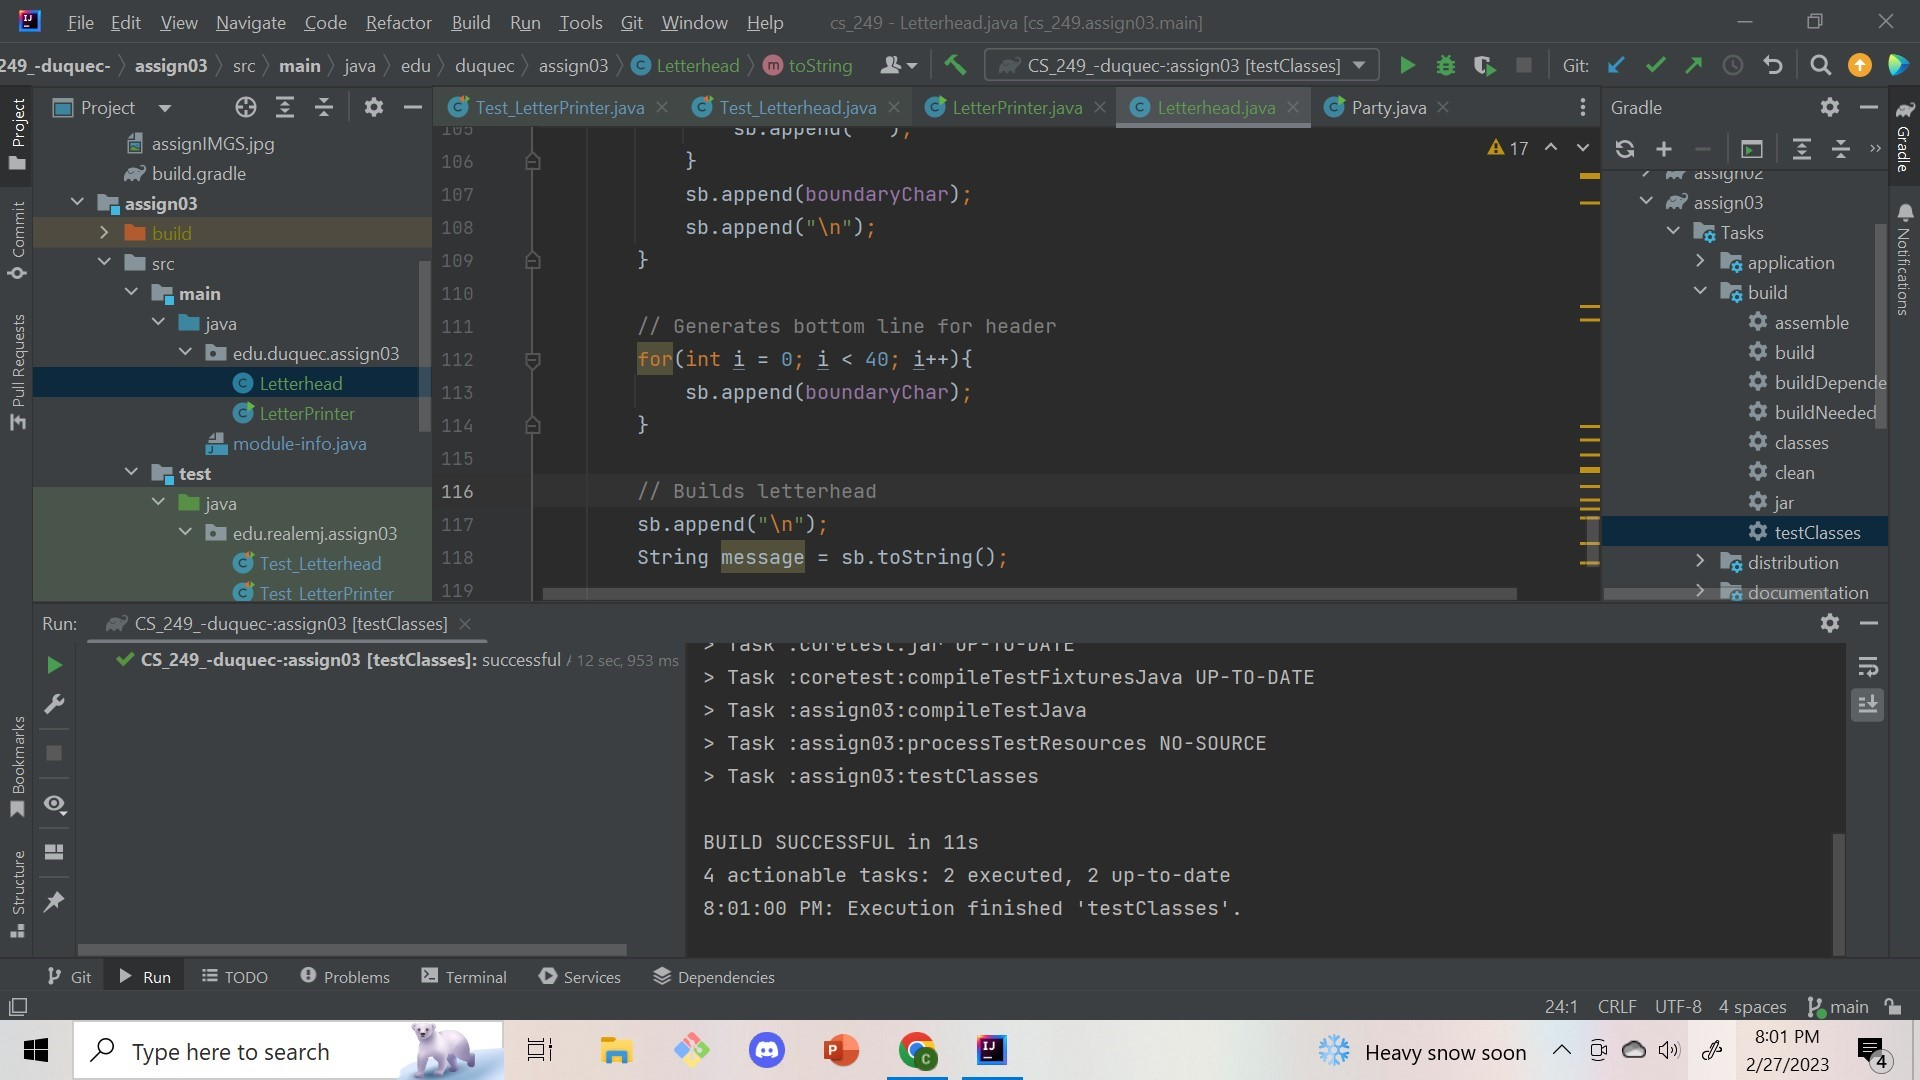
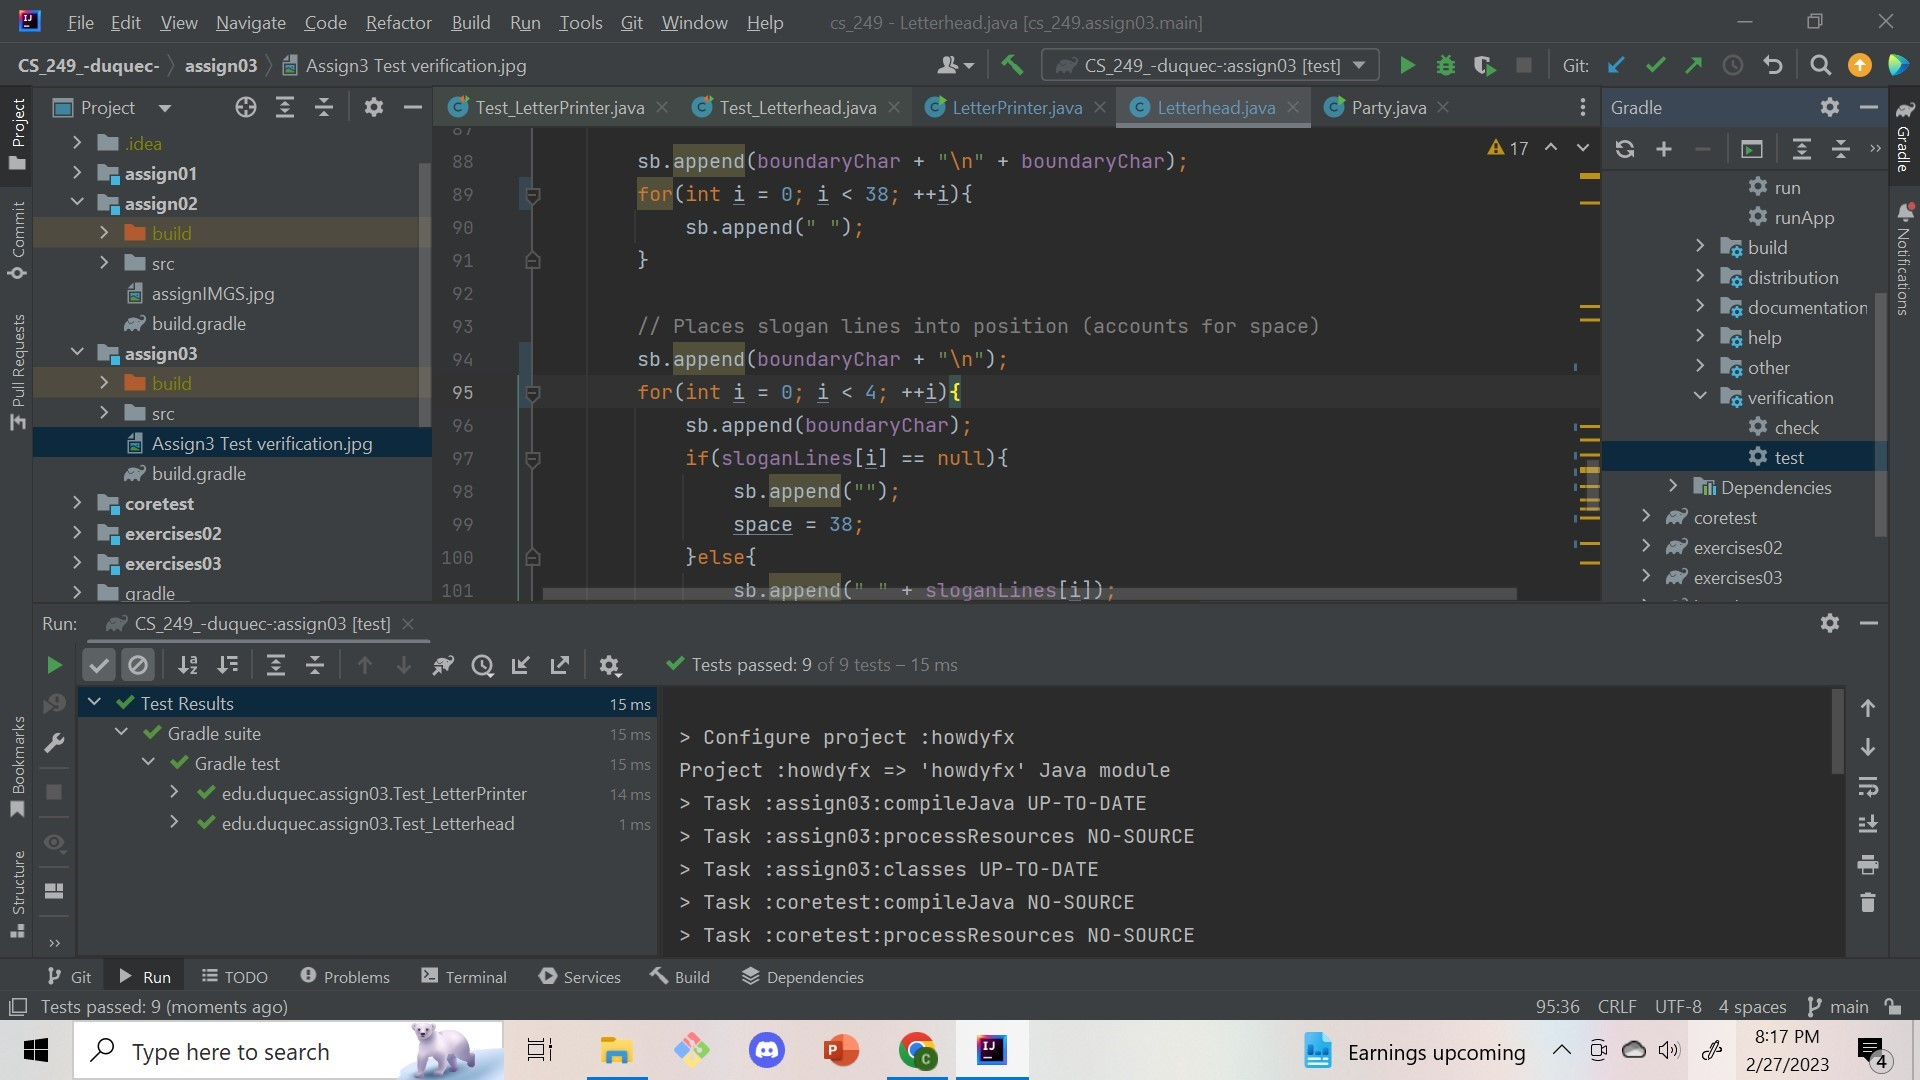
Assign 3 Updated to make up for additional boundary char

diff --git a/assign03/src/main/java/edu/duquec/assign03/Letterhead.java b/assign03/src/main/java/edu/duquec/assign03/Letterhead.java
@@ -54,7 +54,7 @@ public class Letterhead {
 
     // Stores slogan lines by detecting if there is a null or not
     public void setSlogan(String [] sloganLines){
-        for(int i = 0; i <sloganLines.length; i++){
+        for(int i = 0; i <sloganLines.length; ++i){
             if(sloganLines[i] != null){
                 this.sloganLines[i] = sloganLines[i];
             }
@@ -72,7 +72,7 @@ public class Letterhead {
         int space = 0;
 
         // Places the selected bChar 40 times creating top
-        for(int i = 0; i < 40; i++){
+        for(int i = 0; i < 40; ++i){
             sb.append(boundaryChar);
         }
 
@@ -81,18 +81,18 @@ public class Letterhead {
         // Spacing procedure for text
         space = 38 - name.length();
 
-        for(int i = 0; i < space -1; i++){
+        for(int i = 0; i < space - 1; ++i){
             sb.append(" ");
         }
 
         sb.append(boundaryChar + "\n" + boundaryChar);
-        for(int i = 0; i < 38; i++){
+        for(int i = 0; i < 38; ++i){
             sb.append(" ");
         }
 
         // Places slogan lines into position (accounts for space)
-        sb.append(boundaryChar + "\n" + boundaryChar);
-        for(int i = 0; i < 4; i++){
+        sb.append(boundaryChar + "\n");
+        for(int i = 0; i < 4; ++i){
             sb.append(boundaryChar);
             if(sloganLines[i] == null){
                 sb.append("");
@@ -101,7 +101,7 @@ public class Letterhead {
                 sb.append(" " + sloganLines[i]);
                 space = 37 - sloganLines[i].length();
             }
-            for (int j = 0; j < space; j++){
+            for (int j = 0; j < space; ++j){
                 sb.append(" ");
             }
             sb.append(boundaryChar);
@@ -109,7 +109,7 @@ public class Letterhead {
         }
 
         // Generates bottom line for header
-        for(int i = 0; i < 40; i++){
+        for(int i = 0; i < 40; ++i){
             sb.append(boundaryChar);
         }
 

diff --git a/assign03/src/main/java/edu/duquec/assign03/LetterPrinter.java b/assign03/src/main/java/edu/duquec/assign03/LetterPrinter.java
@@ -11,7 +11,7 @@ public class LetterPrinter {
         String name = input.nextLine();
 
         // Asks user for the boundary character input
-        System.out.println("Your new boundary character:");
+        System.out.println("Enter boundary character:");
 
         // Records next user input into string & splits
         String boundary = input.nextLine();
@@ -21,10 +21,10 @@ public class LetterPrinter {
         String [] sloganLines = new String[4];
 
         // Asks for user slogan inputs
-        System.out.println("Enter slogan (Max 4 lines):");
+        System.out.println("Enter slogan (max 4 lines):");
 
         // Fills sloganLines array with inputs
-        for(int i = 0; i < 4; i++){
+        for(int i = 0; i < 4; ++i){
             sloganLines[i] = input.nextLine();
         }
 
